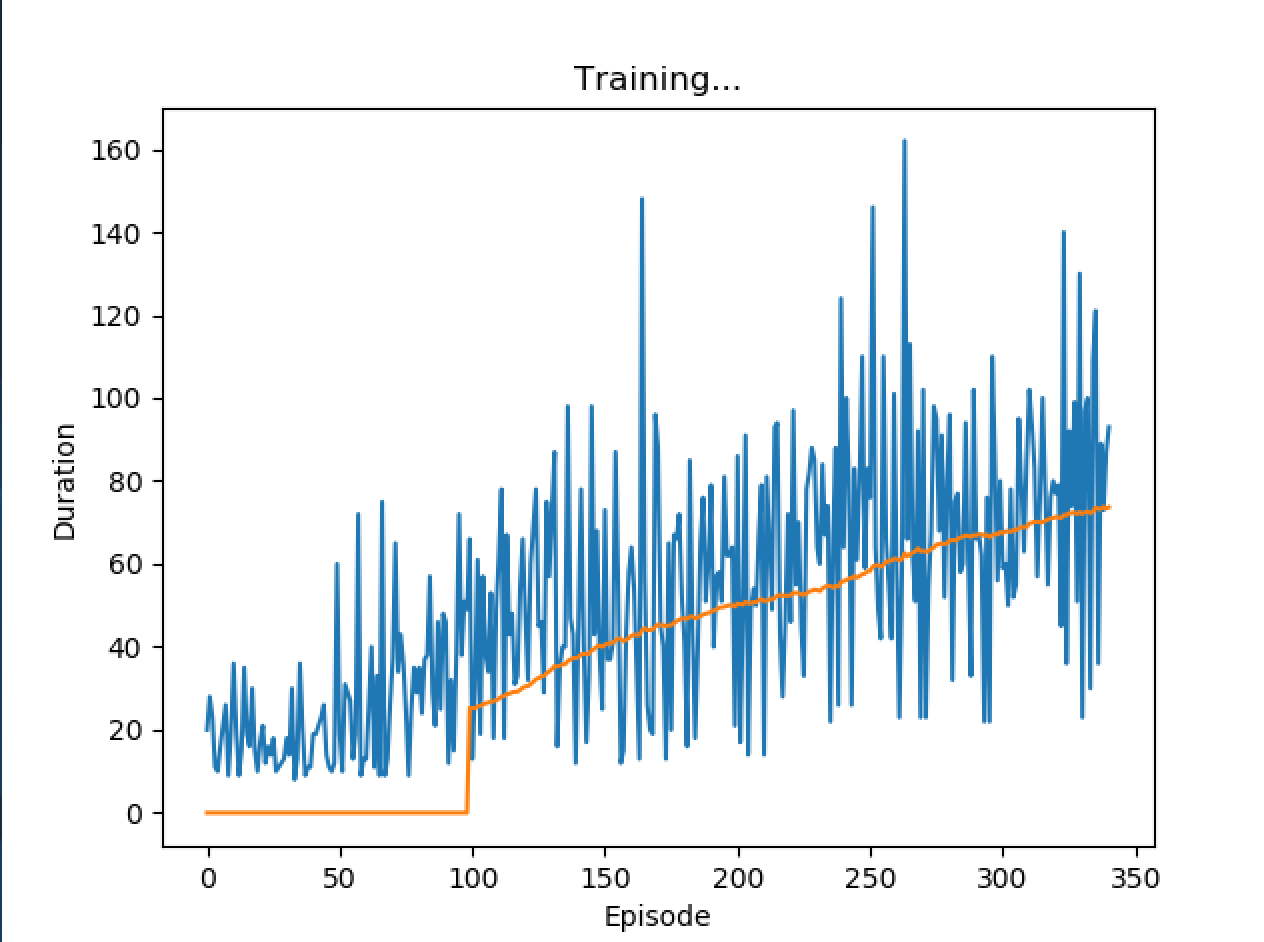
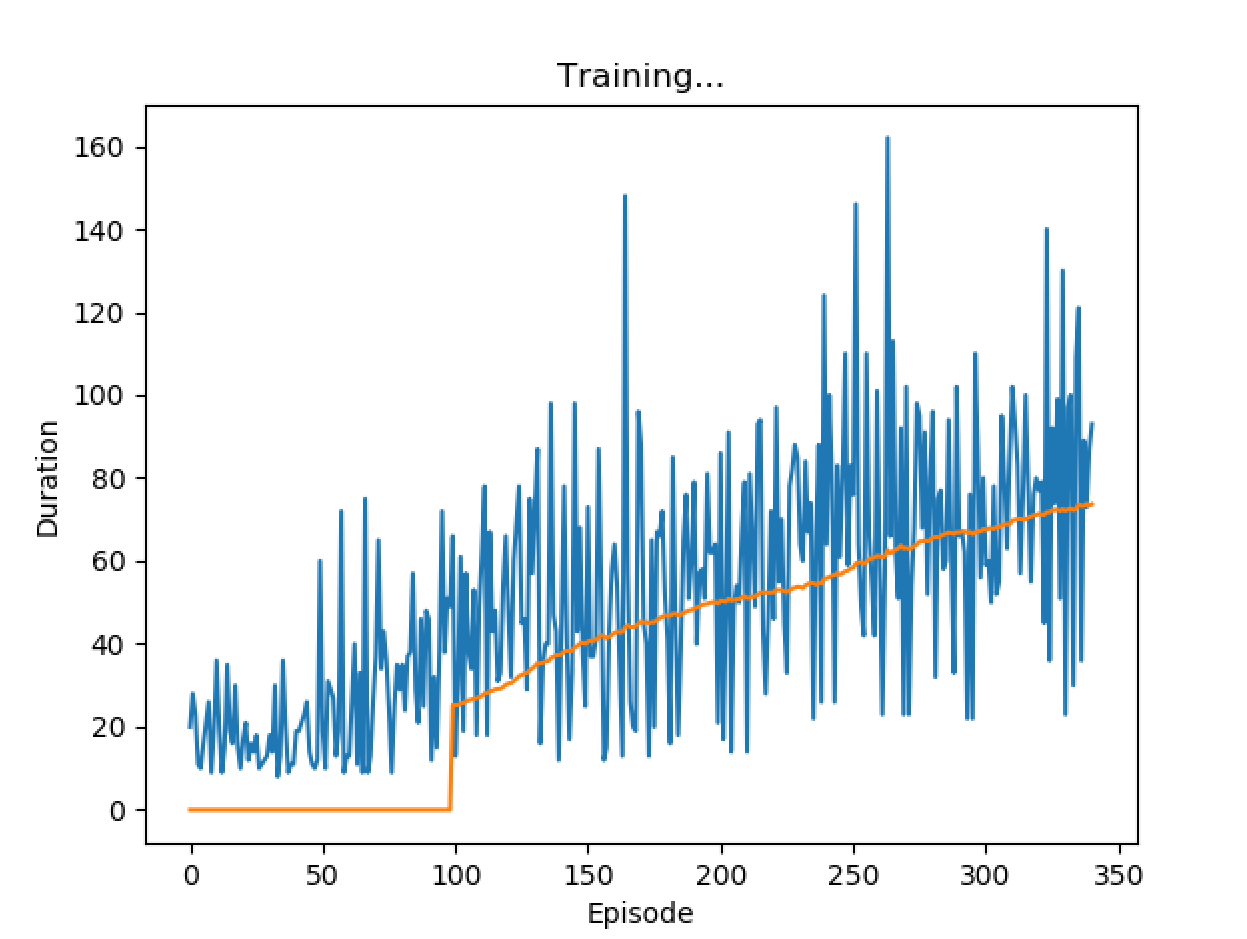
README cleaned & screenshot ajusted

diff --git a/README.md b/README.md
@@ -10,12 +10,12 @@ Source: https://gym.openai.com/envs/CartPole-v1/
 
 ## :rocket: How to start the game?
 
-To download and install the dependencies (only works on mac os or Linux):
+To download and install the dependencies (only works on macOS or Linux):
 ```
 pip install -r requirements.txt
 ```
-To install PyTorch on Windows: 
-https://pytorch.org/get-started/locally/
+To install PyTorch on Windows: https://pytorch.org/get-started/locally/
+
 To launch the game:
 ```
 ipython game.py
